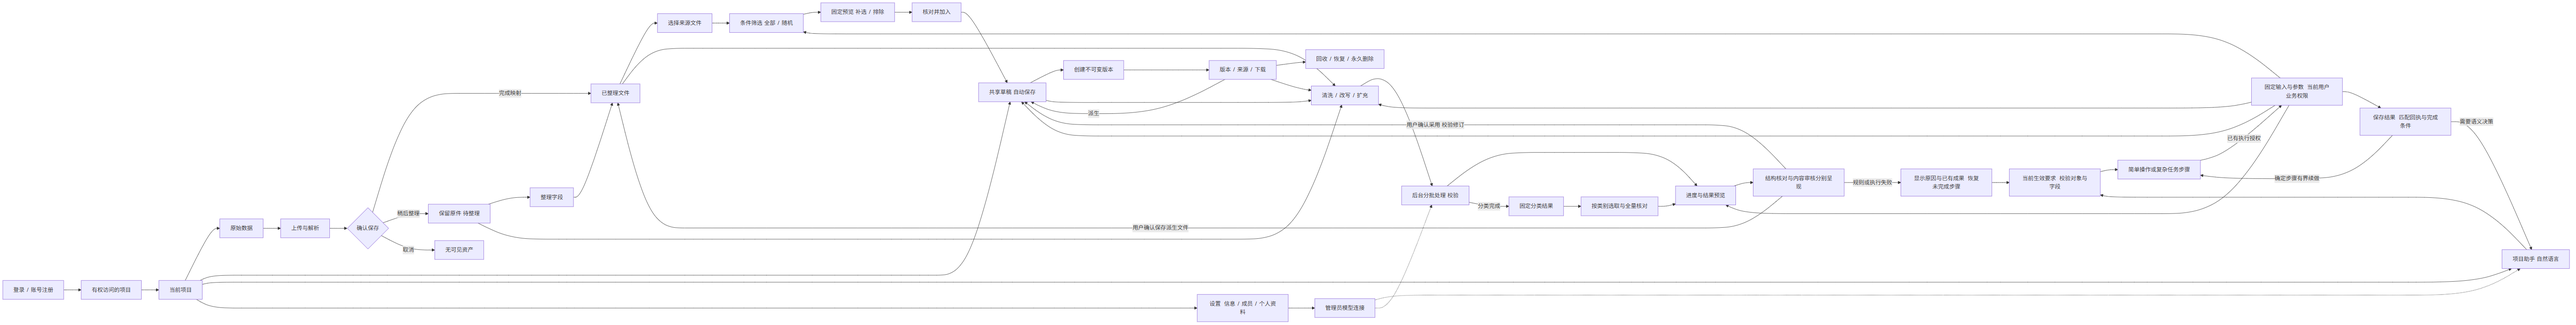
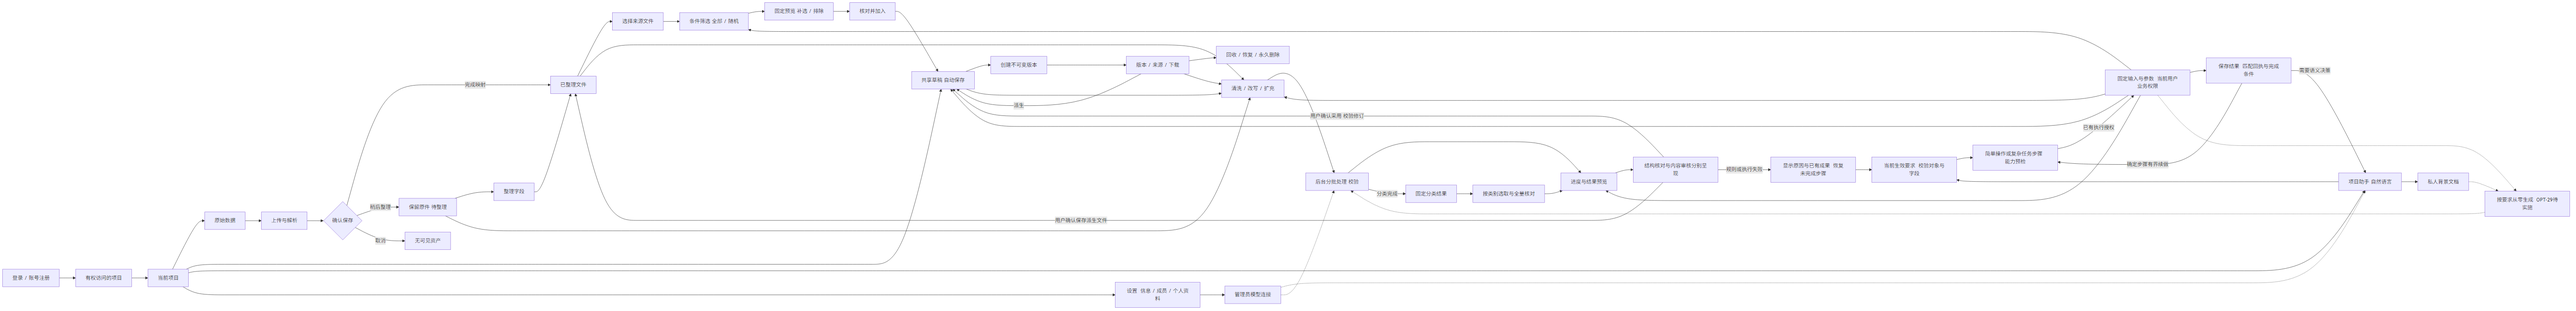
docs: define assistant repair batches OPT-26 to OPT-31

diff --git a/docs/assistant-generation-repair-batches.md b/docs/assistant-generation-repair-batches.md
@@ -1,0 +1,72 @@
+# 项目助手执行与生成修复：三个批次
+
+2026-10-15。Owner 授权整理修复方案和 Tickets；本轮只修改文档，六张均未开始开发。产品入口见 [PRD §7.7](PRD-data-selection-and-assistant.md#77-执行与生成修复2026-10-15待实施)，执行状态见 [台账](../.scratch/assistant-optimization/spec.md)。本方案细化既有助手合同，并明确补入“依据背景文档从零生成”；不把这项新增能力写成现有功能。
+
+## 1. 实测依据与问题边界
+
+审查对象为会话 `conversation_2b0353f882b24924ad23ac3819570dd2`：上传 GB 文档，先制定方案，再依次创建 A.1 八个小类的测试集，每类 50 条，不使用现有原始数据。4217 应用基线为 `cedde4dfd6ef255179d7c77bca535fc79ff64355`；文档基线 HEAD `6237109ac2c0c5968a83c7cbc9764cafc26982ca`，两者应用代码一致。PDF 读取成功；截至审查仅有第一类 50 条未采用候选，其余七类未开始，不能记为已交付 8 个测试集。
+
+| 现象 | 已核实原因及限制 | 修复归属 |
+| --- | --- | --- |
+| `instructions`、`allSelected` 等字段反复被拒绝，错误直接要求用户修工具参数 | 计划步骤的通用输入描述与实际工具校验不一致；界面优先显示底层 hint | OPT-26 |
+| 用户要求只给文本、不再调用操作，仍继续旧步骤 | 待执行旧步骤优先于本轮 `nextAction:none`；自动续做没有正确服从新意图 | OPT-27 |
+| 读取有 50 条，后续改写只处理了最初 20 条；目标变成 82 条 | 读取使用当前成果集合，条件选取分支却回读原始运行；目标缺失时把 50、30、2 三次请求数量相加 | OPT-28 |
+| 空草稿不能按文档直接生成，尝试把背景文档当原始文件 | 当前处理只接受真实记录输入；缺少从零生成能力和计划执行前的能力检查 | OPT-29 |
+| 第一轮多次生成仍大量重复 | 13 次模型请求累计校验 92 条，其中 72 条完全重复，仅保留 20 条；已有去重和有界重试，仍不足以保证有效产出 | OPT-30 |
+| 改写工具完成但内容几乎不变，分类数量被当作质量证明 | 20 条那轮全部未变；正确选择 50 条后仍有 47 条三字段均未变；同问题不同答案未计入完全重复 | OPT-31 |
+
+这次暴露的是能力缺口、工具合同、工作流状态和模型产出质量共同造成的问题，不能归因于用户提示词不够详细。少量种子及采样参数可能影响多样性，但未做受控对照，不能据此认定唯一原因或成功率。结构校验本身已注明需要内容审核；问题还包括助手总结把结构指标过度解释为内容质量。
+
+## 2. Tickets、批次与依赖
+
+| 批次 | Ticket | 交付范围 | 硬依赖 |
+| --- | --- | --- | --- |
+| 第一批：执行正确、反馈可懂 | [OPT-26](../.scratch/assistant-optimization/issues/26-tool-contract-and-error-feedback.md) | 统一计划与工具参数，内部纠错和用户反馈分开 | 现有 OPT-20–25 实现 |
+| 第一批 | [OPT-27](../.scratch/assistant-optimization/issues/27-intent-and-plan-continuation.md) | 最新用户意图优先，暂停、规划和续做一致 | 现有实现；可独立于 OPT-26/28 修复 |
+| 第一批 | [OPT-28](../.scratch/assistant-optimization/issues/28-result-scope-and-goal-count.md) | 当前成果范围统一，目标与补齐请求数量分开 | 现有实现；可独立于 OPT-26/27 修复 |
+| 第二批：补齐真实能力 | [OPT-29](../.scratch/assistant-optimization/issues/29-document-grounded-generation.md) | 文档驱动从零生成、能力预检、八类逐项交付 | OPT-26、OPT-27、OPT-28 |
+| 第三批：产出质量与完整验收 | [OPT-30](../.scratch/assistant-optimization/issues/30-generation-diversity-and-recovery.md) | 场景分配、多样性、重复反馈与有界补齐 | OPT-29 |
+| 第三批 | [OPT-31](../.scratch/assistant-optimization/issues/31-rewrite-effectiveness-and-quality.md) | 改写有效性、质量反馈和最终同会话闭环 | OPT-28、OPT-30 |
+
+推荐按编号推进；第一批三张不存在人为串行依赖。后续批次依赖前批相关自动验证通过，不要求逐张重复人工确认。获得某一批开发授权后可在该批内连续推进；本次文档授权不等于开发、部署或合并授权。
+
+第一批先消除确定性执行错误；此时不能宣称已支持空输入生成。第二批交付可运行的生成路径；内容多样性与最终八类交付在第三批验收。每张包含相关前后端及定向验证，不另拆样式票、测试票或文档票。
+
+## 3. 共同实施边界
+
+- 沿用 AI SDK、现有业务工具、PostgreSQL/Worker/MinIO、处理运行和稳定候选身份；不换框架，不加多智能体、通用 DAG、向量库、第二套结果存储或通用质量评测平台。
+- 依据 [ADR-0014](adr/0014-project-agent-and-processing-runtime.md)，背景文档属于私人会话资料；它提供生成依据，不冒充原始数据资产。服务端核实权限、引用、固定输入和回执，文档中的文字不获得工具授权。
+- 已授权执行无需反复询问开工；结果采用和正式发布保留现有固定确认。停用、撤权、修订冲突、未知写入对账、字段保护及容量限制保持。
+- 同一用户目标的预算跨自动续做、格式纠正和补齐累计，不能靠换运行或重试重置。新一轮明确授权的工作与原故障重试区分；达到上限保留成果并说明未完成部分。
+- 只修本次行为链。工具合同尽量复用现有 schema 和领域服务；若现有存储足够，不为计划、场景和统计各建一张新表。确需持久字段时做最小兼容增补，旧运行按原冻结配方恢复。
+- UI 严格复用 frontend-v1 的字体、token、图标、间距、密度和适用组件，正式改动在 frontend-v3。沿用独立助手页面、处理结果组件和确认卡，不增设第二个工作台或面向用户的 API 参数编辑器；冻结原型保持只读。
+- 保留同一 4217 的项目、账号、文档、失败会话、候选与验收数据；定向测试使用隔离夹具，不改写旧会话来伪造成功。旧 Ticket 的 Owner 状态不由本轮代签。
+
+## 4. 具体用户流程
+
+用户在一个新会话上传背景文档后，可直接说：
+
+> 根据这份文档，为 A.1 的 8 个小类各建一个 50 条的测试集。问题要像用户正常提问、语义完整，不用现有原始数据。先给方案。
+
+助手读取有权访问的文档，核对八个分类定义、每类 50 条和生成能力，给出简短业务方案；此时不创建草稿、不入队、不写候选。用户说“按方案执行，逐个创建”后，逐类生成和审核；每类当前目标为 50 条，整体交付为 8 个测试集、合计 400 条。范围清楚时不要求用户选择内部字段或手动提供种子。
+
+已生成成果支持“把这批问题改得更自然”“只改我选中的两条”“继续下一类”。先处理完当前需要审核/确认的成果，再按已有授权推进下一类；不悄悄采用或发布，不把确认按钮之外的口头总结当作真实写入。沿用已有确认粒度，不新增每个模型批次的确认。
+
+用户改口“先停下，只解释方案”，助手保存当前进度并停止新增业务动作。恢复时以最新明确要求和真实回执继续，不重建已存在的草稿或重复生成已完成的类别。
+
+GB 分类仅为这次验收数据，产品仍支持通用测试集；不内置八类、50 条、拒答要求或安全标签作为所有任务的默认值。内容不满足文档或用户要求时报告具体差额，不承诺模型永远不报错。
+
+## 5. 验证与完成口径
+
+各 Ticket 的验收表是对应断言的唯一详细清单；[测试计划](test-plan-data-selection-and-assistant.md#515-opt-2631-执行与生成修复) 仅作索引。
+
+1. 第一批用现有可控模型和隔离持久化回归本次错误：错误字段、最新意图、跨批 20+28+2 集合、50/30/2 数量。已有未变权限与确认用例直接复用，不重新运行全库流程。
+2. 第二批先做 5–10 条真实文档生成样例，再完成第一类 50 条小闭环；检查无原始数据输入、无人工种子、刷新恢复及真实保存回执。能力通过与内容质量分别记录。
+3. 第三批在固定代码/模型配置下，用一个新会话完成一次八类各 50 条的集成验收，作为本轮唯一大批生成。使用上述普通短提示词；允许业务澄清和既有确认，不允许靠用户提供工具名、参数修正、内部 ID、手动种子或绕过页面 API 来完成。
+4. 400 条全部进行结构检查；每类内容按自然问法、语义完整、分类一致和期望行为进行逐条审核。若只抽查，必须注明范围，不能据此标记 400 条全部可用。明确区分模型原生合格、自动恢复后合格和人工修改后合格。
+5. 记录各类实际数量、重复与未变化数量、模型调用/重试次数、失败类别、耗时和技术纠错提示次数；技术纠错提示目标为 0。预算耗尽保留进度，不能隐藏失败或反复重跑直到成功。一次通过不证明任意模型和输入零失败。
+6. 最终汇总六张验证证据，复用同一 4217 供一次集中人工验收。只构建受影响服务，不新增 5/10 人压测、两小时稳定试验或服务器重启测试；不自动合并、推送或正式部署。
+
+## 6. 本轮文档状态
+
+六张 Ticket 均为 `Status: ready-for-agent`、`Implementation: not-started`。本次仅记录问题、修改范围、依赖与验收；开发完成、真实模型通过及 Owner 验收均需后续实际证据。

diff --git a/.scratch/assistant-optimization/issues/29-document-grounded-generation.md b/.scratch/assistant-optimization/issues/29-document-grounded-generation.md
@@ -1,0 +1,40 @@
+# OPT-29 依据背景文档从零生成与能力预检
+
+Status: ready-for-agent
+Implementation: not-started
+Blocked by: OPT-26, OPT-27, OPT-28
+
+优先级：P1。第二批。依赖 [OPT-26](26-tool-contract-and-error-feedback.md)、[OPT-27](27-intent-and-plan-continuation.md)、[OPT-28](28-result-scope-and-goal-count.md) 的相关自动验证通过。本次仅文档，开发待后续授权；完整边界见 [三批修复方案](../../../docs/assistant-generation-repair-batches.md)。
+
+## 问题与目标
+
+当前处理必须提供真实输入记录，缺少“用背景要求从零生成”路径；计划没有识别能力缺口，导致创建空草稿后反复提交失败。补齐一个实际可执行的生成能力，不再要求用户手工创造种子或把 PDF 假装成原始数据。
+
+## 修改范围
+
+- 在现有处理服务增加明确的无记录生成模式/命令，冻结当前用户要求、数量、允许生成的输出字段、背景版本/哈希及必要页段。与 assets/draft/version 的记录处理合同区分；不把允许空数组扩散到清洗、改写或现有基于记录扩充。
+- 沿用现有队列、Worker、分批执行、预算、取消、恢复和候选存储。新候选身份由服务端分配，不要求模型编造 `sourceRecordId`；无源记录时不套用“继承未修改输入字段”，期望输出和 Metadata 按已确认生成要求校验。
+- 背景引用由服务端解析，只能使用当前用户有权读取的会话资料；权限、撤权及删除清理延续现有规则。处理配方冻结实际依据；来源显示“依据背景文档生成”及真实页段，不列虚构参考记录，也不向其他成员泄漏私人原文。
+- 在规划和执行前做轻量能力/前置条件检查：区分文档可读、记录已选、从零生成等情况。必要模型、背景或目标缺失时在副作用前说明缺少什么，不能写出实际无法执行的步骤后靠盲重试推进。
+- 助手工具、计划和后台执行共同支持此模式；从现有独立助手页面发起，结果复用当前审核、局部处理、采用和发布。依据文档创建多个测试集时，复用现有步骤/交付状态保存类别、目标和成果引用，逐类推进，不做并行编排平台。
+- 来源类型和生成配方只做必要兼容扩展；现有三类记录来源及旧冻结任务恢复不变。先更新受影响的接口/配方说明再落实现有服务，不新增第二套生成页面。
+
+## 非目标
+
+不加知识库、RAG、向量检索、OCR、自动联网搜集或 GB 专用分类器；不绕过采用/发布确认，不把单纯声明“支持生成”作为交付，不使用人工种子作为从零生成成功证据。
+
+## 验收标准
+
+| 编号 | 验收 |
+| --- | --- |
+| R29-1 | 新会话上传有权访问的 PDF 后，普通短请求“按文档生成，先给方案”只读取和规划；无草稿、处理任务或候选写入，方案能正确说明执行条件。 |
+| R29-2 | “按方案执行”可从零产生候选；不读取任何原始记录，不需人工种子/字段纠错，服务端身份稳定且三字段结构符合要求。先验证 5–10 条，再验证第一类 50 条。 |
+| R29-3 | 空输入清洗/改写和旧扩充仍按原合同拒绝；缺背景、无权限、模型未配置在副作用前可理解地失败，不把背景 ID 当资产 ID。 |
+| R29-4 | 中断、取消、刷新、有限重试和未知写入恢复后保留候选及真实回执，不重复创建同一草稿；预算不会通过新模式绕过。 |
+| R29-5 | 八个各 50 的方案在同会话保存独立交付项，首类不会生成 400；已完成类别不重复，后续类别能按既有授权继续；本张不要求真实完成全部八类。 |
+| R29-6 | 核对后沿现有固定确认保存/发布；来源真实，私人附件正文不向无权用户公开，旧记录来源和旧配方定向回归通过。 |
+| R29-7 | UI 仅补必要模式/来源/进度信息，复用 frontend-v1 组件风格；结构成功与内容待审核分别表达，不标记尚未完成的八类交付为完成。 |
+
+## Comments
+
+- 2026-10-15：作为明确的能力增补单列，第一批修错不能代替本张交付；仅整理文档，验收未执行。

diff --git a/.scratch/assistant-optimization/issues/31-rewrite-effectiveness-and-quality.md b/.scratch/assistant-optimization/issues/31-rewrite-effectiveness-and-quality.md
@@ -1,0 +1,36 @@
+# OPT-31 改写有效性、质量反馈与同会话交付验收
+
+Status: ready-for-agent
+Implementation: not-started
+Blocked by: OPT-28, OPT-30
+
+优先级：P1。第三批。依赖 [OPT-28](28-result-scope-and-goal-count.md) 与 [OPT-30](30-generation-diversity-and-recovery.md)。本次仅文档，开发待后续授权；最终业务场景、预算和一次集中验收见 [三批修复方案](../../../docs/assistant-generation-repair-batches.md#5-验证与完成口径)。
+
+## 问题与目标
+
+改写完成后 50 条中有 47 条完全未变化，另有相同问题不同答案；助手却用标签种类数量说明内容足够多样。目标是区分“执行结束、确有修改、结构合格、内容合格、已经保存”，让用户得到真实进度和可操作结果。
+
+## 修改范围
+
+- 在现有 `src/processing/refine.ts`、`review.ts` 及助手 `review.ts` 中，以本轮冻结的真实输入比较允许修改字段；不能错误地与最初原始文件或其他批次比较。记录实际修改、未变化及未处理数量，按当前有效集合汇总。
+- 对明确要求改写的记录，完全未变化不宣称已完成改写目标；给出简短原因和仅处理未生效范围的恢复入口。复用既有有限恢复与累计预算，不无限重写、不覆盖未授权字段。
+- 清洗无多余空白/无需规范化时保持原值属于合法结果，不套用改写失败判定。内容变化只能证明字段有变，不能证明语义质量；标点变化不能被总结成“问法已经自然”。
+- 将结构问题、问题文本碰撞、改写未生效及待内容审核分别表达。自动完全重复去重与用户保留对照样本区分；不凭标签数量、工具成功或计数齐全自动宣称内容合格。
+- 更新助手可见核对结果和总结依据，使用真实统计与明确限制。用户界面保留简短摘要、必要警示及现有结果详情；不增加满屏质量卡片、评分排行榜或新评审智能体。
+- 完成六票集成验证，复用现有脚本、可控模型、浏览器和处理服务；记录实际模型请求及人工干预，不建设新的评测平台。
+
+## 验收标准
+
+| 编号 | 验收 |
+| --- | --- |
+| R31-1 | 可控 50 条改写仅 3 条变化、47 条原样时，报告 3 条变化/47 条未生效，不称全部改写成功；部分重做只触及授权范围且未选成果保留。 |
+| R31-2 | 比较使用当前轮真实固定输入；保护字段不变。合法清洗无变化正常结束；仅标点改变不能被当成语义已通过，内容审核状态独立。 |
+| R31-3 | 相同问题不同答案明确提示碰撞并允许按业务要求保留；标签种数、结构通过及模型声称完成不能自动解除内容审核。 |
+| R31-4 | 依总方案用一个新会话、一个上传文档和普通短提示词，先方案再逐类执行八个各 50 条；0 次用户内部参数纠错、0 条人工种子、0 次绕过助手 API 补造结果。 |
+| R31-5 | 最终 400 条结构检查全覆盖；逐条审核自然问法、语义完整、分类和期望行为，并区分原生结果/自动恢复/人工修改。缺额、内容问题或只抽样时如实记录，不标全量可用。 |
+| R31-6 | 八个成果经既有固定确认保存，发布按实际用户授权及既有确认执行；刷新可读且有真实回执。逐类数量、来源及交付状态准确，不因一个类别完成就结束全部任务。 |
+| R31-7 | 有限失败保留当前成果，停止/续做不重复创建或采用；汇总六票定向验证与唯一一次大批集成证据，4217 保留旧验收数据，UI 与 frontend-v1 对齐。 |
+
+## Comments
+
+- 2026-10-15：包含直接相关质量修复及一次最终集成验收；仅整理文档，所有验收待执行。自动验证不代替 Owner 验收。

diff --git a/docs/test-plan-data-selection-and-assistant.md b/docs/test-plan-data-selection-and-assistant.md
@@ -212,3 +212,9 @@ OPT-07 已记录错误来源/过滤范围、冻结参数、回包丢失、后台
 默认使用现有假模型与隔离持久化验证确定性边界，真实模型只执行有界样例；同一固定 HEAD 的有效证据直接复用。暂时故障恢复不等于首次成功，结构通过不等于内容合格，人工修正单独记账。保留 4217 的 Owner 数据，不加入 5/10 人压测、两小时试验或服务器重启检查；最终页面闭环集中一次人工验收，不替旧 Ticket 签署通过。
 
 OPT-20 已按 R20-1–5 完成定向接口、诊断单测和浏览器验证，并保存修复前真实模型小样本；统一入口为 `scripts/assistant-baseline.ts`。可控模式只报告合同断言，真实模式核对持久成果和范围；未知恢复/人工纠错计数保持 null。命令、样本、复审及同一 4217 版本见 [OPT-20 验证记录](../.scratch/assistant-optimization/opt20-verification.md)。OPT-21 已完成共享重试预算、故障/退避、停止/撤权、原回执与未知写入、过期重领、总结失败后的成果保留和 Worker 累计额度回归；实际命令与 A9/A10 结果见 [验证记录](../.scratch/assistant-optimization/opt21-verification.md)。OPT-22 已完成要求精确归一、薄参数绑定、阶段能力、固定选取及规则变更确认竞争的定向回归；原回执、Metadata 键限制、旧批次选择和背景要求重排均有覆盖，A2/A3/A4/A6/A9/A10 实际结果见 [验证记录](../.scratch/assistant-optimization/opt22-verification.md)。OPT-23 已完成超过六轮/五十条历史的当前来源、持久选择及替换失效、长结果成对摘要和步骤推进、定义原文复用/篡改拒绝、删除后显式撤销以及普通附件省略分类的保护；既有 GB 附件仅作只读引用核查。A2/A7/A8 及同一 4217 证据见 [验证记录](../.scratch/assistant-optimization/opt23-verification.md)。OPT-24 已完成独立路由/个人会话迁移、分页与按需明细、安全渲染、权限失效、输入/选择保留和当前方案修订执行；审阅指出的终态轮询、无效记忆回落及提交旧快照竞态均通过定向回归。固定 Web、真实旧会话的请求字节/耗时及同一 4217 数据保留见 [OPT-24 验证记录](../.scratch/assistant-optimization/opt24-verification.md)。OPT-25 的整任务有效集合、选择修订、局部调整与原草稿确认回执已实施；跨批、排除、缺失、权限、参数恢复、未知写入及最终模型/200条集成证据汇总见 [OPT-25 验证记录](../.scratch/assistant-optimization/opt25-verification.md)。最终 Owner 集中验收仍 pending。
+
+### 5.15 OPT-26–31 执行与生成修复
+
+本轮仅新增验收计划，尚未开发或执行。详细断言分别见 [OPT-26](../.scratch/assistant-optimization/issues/26-tool-contract-and-error-feedback.md#验收标准)、[OPT-27](../.scratch/assistant-optimization/issues/27-intent-and-plan-continuation.md#验收标准)、[OPT-28](../.scratch/assistant-optimization/issues/28-result-scope-and-goal-count.md#验收标准)、[OPT-29](../.scratch/assistant-optimization/issues/29-document-grounded-generation.md#验收标准)、[OPT-30](../.scratch/assistant-optimization/issues/30-generation-diversity-and-recovery.md#验收标准)、[OPT-31](../.scratch/assistant-optimization/issues/31-rewrite-effectiveness-and-quality.md#验收标准)。
+
+三批推进、普通短提示词、400 条唯一一次集成验证及内容审核范围以 [总方案 §5](assistant-generation-repair-batches.md#5-验证与完成口径) 为准；不重复建立测试平台或每票重跑大批生成，不追加压力/长稳/重启试验。历史通过证据只覆盖未变化的范围，新发现的问题必须有对应回归，Owner 验收单独记录。

diff --git a/.scratch/assistant-optimization/issues/30-generation-diversity-and-recovery.md b/.scratch/assistant-optimization/issues/30-generation-diversity-and-recovery.md
@@ -1,0 +1,35 @@
+# OPT-30 生成场景分配与有界重复补齐
+
+Status: ready-for-agent
+Implementation: not-started
+Blocked by: OPT-29
+
+优先级：P1。第三批。依赖 [OPT-29](29-document-grounded-generation.md)，复用 OPT-28 目标与成果合同。本次仅文档，开发待后续授权；证据及共同边界见 [三批修复方案](../../../docs/assistant-generation-repair-batches.md)。
+
+## 问题与目标
+
+已有去重、批次偏移和重试仍出现 92 条中 72 条完全重复。目标是让生成批次承担明确不同的场景任务，只补实际缺额；预算耗尽真实报告部分成果。不能仅提高温度或加一句“不要重复”就声称解决。
+
+## 修改范围
+
+- 复用 `src/processing/protocol.ts`、`execute.ts` 和现有配方：按用户要求形成简短、可持久的场景分配与每批生成范围，涵盖不同使用情境、问法和必要分类；每批获得自己的目标及已使用场景摘要，避免反复生成同一小组变体。
+- 场景分配复用已有方案/模型上下文和批次机制，不额外建立策划智能体。用户不必填写场景矩阵；不预先生成完整 400 条塞进提示词，也不硬编码 GB 或金融主题。
+- 保留已有确定性完全重复检查，并将新候选与当前有效成果比较；将已接受内容的有界摘要、明确重复原因和剩余场景传回后续请求。跨批、补齐和局部处理都沿同一目标/有效集合计算缺额。
+- 同问题不同期望输出识别为需核对的碰撞，不能无条件当作完全重复删除；近似表达不引入向量相似度或自动语义判死。所需内容审核与自动去重边界在 OPT-31 展示。
+- 格式错误、超时、内容重复、数量不足分类计入已有共享额度；有效候选保留，补齐只请求缺额。达到总预算停止并给出剩余量；显式继续也不能把故障重试伪装成新任务重置原额度。
+- 配方与必要采样参数变更记录版本，旧任务按原版本恢复。参数调整须通过同输入的小样本证据判断，不武断归因于温度或某个模型。
+
+## 验收标准
+
+| 编号 | 验收 |
+| --- | --- |
+| R30-1 | 可控模型返回跨批完全重复、空问题、有效内容混合时，只计有效成果；目标 50，已有 20/48 时剩余 30/2，补齐不扩大目标或删除原成功结果。 |
+| R30-2 | 本批、跨批及与当前任务成果的完全重复被正确处理；同问题不同答案作为碰撞待审核，合法对照样本不会被无条件删除。 |
+| R30-3 | 连续重复或超时耗尽共享预算后终止，保留有效数量、原因及可恢复范围；换自动回合/重试入口不绕过额度，既有停止和撤权仍有效。 |
+| R30-4 | 真实第一类 50 条采用明确场景分配，记录请求数、完全重复数、有效数、耗时和内容审核结果；相同基础要求下与审查基线比较，未达 50 不记为成功。 |
+| R30-5 | 验证另一种通用主题的小样例，分类与场景来自要求而非内置 GB；新旧配方兼容。新测试不扩为大型模型横评。 |
+| R30-6 | 自动补齐、部分完成与预算耗尽在现有页面简洁表达，UI 复用 frontend-v1；完整八类集成验收留到 OPT-31，一次执行并复用本张证据。 |
+
+## Comments
+
+- 2026-10-15：聚焦现有生成链与重复恢复，不增加第二套内容生成平台；仅整理文档，验收未执行。

diff --git a/.scratch/assistant-optimization/spec.md b/.scratch/assistant-optimization/spec.md
@@ -1,3 +1,5 @@
+2026-10-15 新增文档计划：Owner 要求按三个批次整理 [OPT-26–31 修复方案](../../docs/assistant-generation-repair-batches.md)，覆盖参数/错误反馈、计划意图、成果范围与数量、文档从零生成、多样性和改写质量。六张均为 not-started，本轮未改应用或 4217，开发待后续授权；旧 Ticket 实施及 Owner 验收记录保持。
+
 2026-10-15 最新实施：[OPT-25](issues/25-assistant-task-results-and-delivery.md) 已按Owner授权完成。默认整任务有效成果，固定勾选及局部处理，原草稿采用与真实回执；最终代码、27项HTTP、39项故障/确认合同、15次短请求和200条同会话流程、40条内容核对及同一4217数据保留见[验证记录](opt25-verification.md)。Implementation completed、Owner pending；下面旧记录保留历史状态，OPT-05/09不由本次代签。
 
 # 项目助手实测优化实施规格
@@ -87,6 +89,12 @@ Implementation: in-progress
 | [OPT-23](issues/23-assistant-context-and-background-refs.md)      | 当前事实摘要、长会话续用及已验证背景引用                       | OPT-22 已完成                                         | completed      | [实施与验证](opt23-verification.md)；同一 4217、Owner pending                                           |
 | [OPT-24](issues/24-assistant-independent-workspace.md)            | 独立助手页面、个人会话、上下文及既有能力迁移                   | OPT-20；OPT-23 已完成                                 | completed      | [实施与验证](opt24-verification.md)；同一 4217、Owner pending                                           |
 | [OPT-25](issues/25-assistant-task-results-and-delivery.md)        | 整任务成果审核、局部调整与确认交付闭环                         | OPT-21/22/23/24                                       | completed      | [原验证](opt25-verification.md)、[审阅补修及最新4217](opt20-25-review-fixes.md)；Owner集中验收pending   |
+| [OPT-26](issues/26-tool-contract-and-error-feedback.md) | 统一参数合同、内部纠错与用户错误反馈 | 现有实现 | not-started | 2026-10-15 仅文档；验收未执行 |
+| [OPT-27](issues/27-intent-and-plan-continuation.md) | 最新意图、暂停与计划续接 | 现有实现；与 OPT-26/28 独立 | not-started | 2026-10-15 仅文档；验收未执行 |
+| [OPT-28](issues/28-result-scope-and-goal-count.md) | 当前成果范围与业务目标数量一致性 | 现有实现；与 OPT-26/27 独立 | not-started | 2026-10-15 仅文档；验收未执行 |
+| [OPT-29](issues/29-document-grounded-generation.md) | 依据文档从零生成与执行能力预检 | OPT-26/27/28 | not-started | 2026-10-15 仅文档；验收未执行 |
+| [OPT-30](issues/30-generation-diversity-and-recovery.md) | 场景分配、多样性与有界重复补齐 | OPT-29 | not-started | 2026-10-15 仅文档；验收未执行 |
+| [OPT-31](issues/31-rewrite-effectiveness-and-quality.md) | 改写有效性、质量反馈及八类集成验收 | OPT-28/30 | not-started | 2026-10-15 仅文档；验收未执行 |
 
 长任务的历史范围见 [方案执行与长任务恢复](../../docs/assistant-long-task-execution.md)。当前整改按本规格开头的文档职责执行。OPT-05 与整改批次的最终 Owner 验收仍未收口；OPT-10 补修后仍复用同一最终 checkpoint，不改写历史验证记录。
 

diff --git a/.scratch/assistant-optimization/issues/26-tool-contract-and-error-feedback.md b/.scratch/assistant-optimization/issues/26-tool-contract-and-error-feedback.md
@@ -1,0 +1,37 @@
+# OPT-26 工具参数合同与用户错误反馈修复
+
+Status: ready-for-agent
+Implementation: not-started
+Blocked by: none
+
+优先级：P1。第一批。依赖已存在的 OPT-20–25 实现；本次仅文档，开发待后续授权。共同边界和证据见 [三批修复方案](../../../docs/assistant-generation-repair-batches.md)。
+
+## 问题与目标
+
+计划接受的输入描述与工具实际参数不一致，`create_draft.instructions`、`submit_processing.allSelected` 等错误反复出现；界面直接把跨工具纠错说明交给用户。目标是让模型使用真实可执行合同，在有界范围内自行修正内部参数错误，用户只处理业务问题。
+
+## 修改范围
+
+- 对齐 `src/assistant/agent.ts` 中工具定义、计划步骤输入和校验/执行映射：每个 action 复用实际工具 schema 或从同一来源派生薄合同，避免通用 input 暗示所有 action 都接受同一组字段。读取、规划和执行阶段暴露的能力与当前模式一致。
+- 已知当前对象、草稿及候选引用继续由服务端校验绑定；区分背景文档和资产引用，不把非法 ID 静默转换成另一个来源。结构错误在任何业务副作用前被拦截。
+- 内部修复信息只包含本次工具、错误路径、允许字段及必要正确结构；去掉每次重复的跨工具大段提示。沿用现有共享预算，重复相同错误无进展时停止，不增加第二套重试循环。
+- 调整 `src/assistant/diagnostics.ts` 与 `frontend-v3/src/components/project-assistant.tsx`：普通视图说明“哪一步未完成、已有成果是否保留、能做什么”；技术信息收进诊断详情，不能优先直接显示底层 hint 或让用户删除 `allSelected`。
+- 从实际回执决定成功与失败；工具完成但总结失败时不把业务操作显示为未执行。仅业务信息不明确时要求用户补充。
+
+## 非目标
+
+不支持空输入生成（见 OPT-29），不替换模型框架，不建设通用 schema 注册平台，不靠扩大可接受任意字段掩盖错误。UI 沿用现有布局和 frontend-v1 风格。
+
+## 验收标准
+
+| 编号 | 验收 |
+| --- | --- |
+| R26-1 | 计划与直接调用对同一 action 的合法/非法参数结论一致；覆盖本次两个错误字段、背景 ID 误作资产及缺少必填字段。非法步骤未创建草稿、任务或候选。 |
+| R26-2 | 可控模型先给错误字段后改正，在原预算内完成；重复同错耗尽后有明确终止原因，无无限续做、无重复业务写入。 |
+| R26-3 | 用户用“先写方案”“按方案执行”等短话即可走通已有能力；无需内部 ID、工具参数或人工纠错提示。依赖 OPT-29 的能力暂时明确反馈尚不支持。 |
+| R26-4 | 参数错误、来源失效、模型暂时不可用、业务成功但总结失败分别给出准确反馈；普通界面没有长堆栈、密钥、跨工具参数教学，诊断保留定位所需信息。 |
+| R26-5 | 定向浏览器覆盖报错及恢复、已有成果入口、诊断展开、键盘及窄窗口；保持 frontend-v1 风格、权限与确认流程。 |
+
+## Comments
+
+- 2026-10-15：根据八类测试集实测建立；仅整理文档，验收未执行。

diff --git a/.scratch/assistant-optimization/issues/28-result-scope-and-goal-count.md b/.scratch/assistant-optimization/issues/28-result-scope-and-goal-count.md
@@ -1,0 +1,35 @@
+# OPT-28 当前成果范围与目标数量一致性修复
+
+Status: ready-for-agent
+Implementation: not-started
+Blocked by: none
+
+优先级：P1。第一批，可独立修复；合批验证使用 OPT-26/27 的合同。本次仅文档，开发待后续授权。共同边界见 [三批修复方案](../../../docs/assistant-generation-repair-batches.md)。
+
+## 问题与目标
+
+读取 50 条当前候选后，条件改写却只读取初始运行的 20 条；目标未持久保留时按运行请求量计算出 82 条。目标是让查看、选取、修改、核对和采用使用同一份当前成果，业务目标不随补齐次数变化。
+
+## 修改范围
+
+- 统一 `src/assistant/agent.ts` 的 `read_processing`、候选筛选/局部修改与 `candidates.ts` 的当前有效集合解析；配合 processing 现有 task-state/refine 服务。历史 run 详情保留只读追溯，不作为“当前全部”的隐式回落。
+- 明确三种范围：用户明确当前全部、当前筛选匹配结果、固定 UI 勾选。没有勾选不能解释为全选；明确“这批全部”也不能强迫先勾 UI。空字符串条件不作为选择全部的捷径。真正业务歧义才询问范围。
+- 各入口冻结同一集合修订、稳定身份和实际运行引用；局部替换不重复计数，未选候选保留。集合失效重新核对，不能悄悄改到旧运行或其他任务。
+- 修复 `src/assistant/review.ts`、要求及计划持久化中的目标数量来源：每个交付目标的数量独立于 `outputCount` 和重试次数；保留已确认目标，只有用户变更才更新。八类各 50 的总体与当前类别数量分别表达。
+- 旧任务缺目标时，仅从可核实的生效要求或无歧义原始生成目标恢复；无法确定时请求业务澄清，禁止累加补齐请求量或用当前实有数量反推已达标。
+- 核对、摘要与确认卡使用同一目标/实际成果统计；不另建候选副本表或跨会话合并器。
+
+## 验收标准
+
+| 编号 | 验收 |
+| --- | --- |
+| R28-1 | 构造 20+28+2 条有效成果；读取、全量自然语言改写、条件选择、UI 选择和采用均覆盖正确 50 条，历史 run 仍只显示自己的结果。 |
+| R28-2 | 固定两条只处理两条，未选 48 条不变；刷新、筛选、修订冲突和候选替换不误改、不重计，空勾选不会扩大范围。 |
+| R28-3 | 目标 50、原请求 50、补齐请求 30 和 2 时目标始终 50，实际按有效集合计算；暂停、重建计划、刷新后不会变成 82 或 20。 |
+| R28-4 | 旧任务目标可明确恢复时无需用户重复输入；有歧义则明确未核实，不以当前数量宣告完成；新的普通补齐不重复扩大总目标。 |
+| R28-5 | 八个各 50 的交付项不混淆为首类 400；部分采用/完成不标全部完成；数量与范围在助手、处理结果及固定确认中一致。 |
+| R28-6 | 继续保护跨用户/项目权限、已保存身份、字段修订和未知写入幂等；本张不启动真实 400 条生成，使用现有隔离夹具定向验证。 |
+
+## Comments
+
+- 2026-10-15：按当前集合与目标漂移两个同链问题建票；仅整理文档，验收未执行。

diff --git a/.scratch/assistant-optimization/issues/27-intent-and-plan-continuation.md b/.scratch/assistant-optimization/issues/27-intent-and-plan-continuation.md
@@ -1,0 +1,37 @@
+# OPT-27 最新用户意图与计划暂停、续接修复
+
+Status: ready-for-agent
+Implementation: not-started
+Blocked by: none
+
+优先级：P1。第一批，可独立修复；合批验证使用 OPT-26 的反馈合同。本次仅文档，开发待后续授权。共同边界见 [三批修复方案](../../../docs/assistant-generation-repair-batches.md)。
+
+## 问题与目标
+
+本轮明确只要求文本时，旧待执行步骤仍优先于 `nextAction:none`。目标是由最新有效用户意图决定是否继续业务操作，已有成果保留，用户无须猜测怎样才能阻止助手继续执行旧计划。
+
+## 修改范围
+
+- 梳理 `src/assistant/agent.ts` 的 `plan_task`、`pendingPlanAction`、固定步骤执行和自动续做，配合 `plan.ts`、`tasks.ts`：本轮回答/规划/执行意图及现有执行授权先于旧 pending 步骤；明确暂停业务执行时不能被旧步骤覆盖。
+- 复用现有任务/计划状态与修订。`nextAction:none` 在本轮仅回答或规划时不能被重解释为立即执行；“继续执行”只恢复最新获授权方案。不要把模型一次未选工具永久等同于用户撤销授权。
+- 区分暂停后续步骤与已入队运行的取消：暂停不再派新任务；用户明确停止运行则使用已有取消机制。已完成回执保留，停止/改要求后的旧自动事件和迟到响应不能重新启动旧工作。
+- 计划调整后仅保留仍匹配对象、范围及修订的有效回执；读取进度、刷新或重新打开会话不会重复创建草稿或重新执行完成步骤。
+- 界面只用既有状态和简短下一步说明表达“方案待执行”“已暂停”“处理中”“待审核”；不新增强制确认卡或每轮规划弹窗。
+
+## 非目标
+
+不建立独立状态机平台、自然语言关键词规则库或新任务调度器，不取消用户已授权且未改变的正常自动推进。只改当前助手链及其持久恢复边界。
+
+## 验收标准
+
+| 编号 | 验收 |
+| --- | --- |
+| R27-1 | 有旧 pending 步骤时说“先别执行，只解释方案”，本轮无新草稿/处理/写入；允许必要只读查询。`nextAction:none` 不被旧 action 覆盖。 |
+| R27-2 | “按方案执行”使用最新方案及真实回执继续，完成步骤不重做；初始已明确执行的请求不会再次要求开工确认。 |
+| R27-3 | 暂停后收到自动续做、迟到工具响应或刷新恢复，仍不启动旧步骤；明确停止后沿用取消保护，不能写入失效结果。 |
+| R27-4 | 执行中修改数量/范围仅影响后续授权工作，不能沿旧方案提交；已完成成果不丢失，失效确认卡不能写入。 |
+| R27-5 | 同会话经历方案→执行→暂停解释→继续，状态和真实副作用一致；界面不增加无意义确认，沿用 frontend-v1 样式。 |
+
+## Comments
+
+- 2026-10-15：根据旧方案误续做建立；仅整理文档，验收未执行。

diff --git a/docs/architecture/data-selection-and-assistant.md b/docs/architecture/data-selection-and-assistant.md
@@ -252,3 +252,15 @@ OPT-24 在 frontend-v3 增加项目内个人会话路由，完整抽屉退出正
 OPT-25 默认 candidates 的 `scope=task` 复用 processing task 的当前有效引用，历史 `scope=run` 仅用于追溯。可信 task 关联、来源快照、当前成果/排除修订派生 `reviewRevision`，数量、筛选、分页、核对及采用使用同一集合。稳定来源身份与实际运行/结果引用分开；固定勾选服务端冻结跨批分组，继续处理只物化当前有效成果，缺失占位不计产出，后台未完成不进入完整采用。采用沿原草稿基线/字段修订与既有确认幂等，部分回执不能算整体完成；最终发布另确认。页面复用 ProcessingReview 和既有控件，无新结果表或 Worker 变更。已有批准方案启用时保留同来源/要求下的唯一步骤参数；筛选默认值计划/执行共同归一，错误计划参数不改变持久任务。边界、模型样本及集中验收见 [OPT-25 记录](../../.scratch/assistant-optimization/opt25-verification.md)。
 
 - 不增加数据表或服务；必要的任务/规则/诊断字段按可选读取兼容旧任务。整体主业务顺序仍是资料→处理→审核→确认采用/发布，因此不改写历史 v2 主流程图或 ADR 的技术选型。实施状态与证据见 [OPT-20–25 台账](../../.scratch/assistant-optimization/spec.md)。
+
+## 15. OPT-26–31 执行与生成修复设计（待实施）
+
+2026-10-15 仅整理文档，行为依据 [PRD §7.7](../PRD-data-selection-and-assistant.md#77-执行与生成修复2026-10-15待实施)，具体范围与依赖见 [三批修复方案](../assistant-generation-repair-batches.md)。本节是计划，不改变前述既有实现记录。
+
+- 工具计划合同复用实际 action schema，内部修复诊断和面向用户的业务反馈分开；不扩成任意参数透传。
+- 本轮意图和现有执行授权约束后续步骤，复用任务修订、取消及回执，不新建调度/状态机平台。
+- 查看、筛选、局部处理和采用共同使用当前有效集合及固定修订；业务交付目标独立于各次请求量，禁止按补齐请求求和。
+- 新增明确的无记录生成模式，冻结当前要求与有权读取的背景依据，复用现有处理运行、Worker 和候选存储。与旧记录来源严格区分，服务端创建候选身份；不伪造原始文件/记录或清空旧校验。必要存储字段与配方兼容增补集中于 OPT-29。
+- 场景分配与重复反馈进入现有有界生成配方；实际变化、结构检查和内容审核分开。旧冻结任务保持原恢复语义，权限、个人资料生命周期、幂等、容量和固定确认继续遵循 [ADR-0014](../adr/0014-project-agent-and-processing-runtime.md)。
+
+不引入第二框架、向量库、通用 DAG、候选副本表或新评审智能体。实现时仅补受影响接口及存储说明，不借本轮重构其他模块。

diff --git a/docs/PRD-data-selection-and-assistant.md b/docs/PRD-data-selection-and-assistant.md
@@ -195,6 +195,16 @@ Owner 本轮要求详细方案并拆分多张 Tickets；当前仅完成文档，
 
 实施拆为 [OPT-20–25](../.scratch/assistant-optimization/spec.md)，完整交互、读取、恢复上限和验证口径只在上述方案定义，Ticket 记录各自交付断言。此前原型中助手抽屉的布局由本次新页面修订覆盖，其他合同不变。
 
+### 7.7 执行与生成修复（2026-10-15，待实施）
+
+Owner 确认将八类测试集实测问题按三个批次整理为 [OPT-26–31 修复方案](assistant-generation-repair-batches.md)。本次仅文档，不表示开发、部署或人工验收完成。详细行为、共同边界及最终用户流程在该方案定义，各 Ticket 记录范围、依赖与验收断言。
+
+- 第一批落实最新意图优先、计划和工具合同一致、当前成果范围统一与目标数量独立持久；内部参数纠错不交给普通用户。
+- 第二批新增依据有权读取的背景文档和当前要求从零生成候选的能力；不需要原始数据记录或人工种子。规划先检查能力，生成仍走现有后台处理、审核及固定确认；背景不冒充原始资产。
+- 第三批在现有预算内分配生成场景、处理重复和缺额，反馈改写未生效与内容待审核；结构通过、实际变化、内容质量和保存事实分别表达。
+
+本增补修订 §6 的处理入口，新增无记录生成模式，保留原清洗/改写/基于记录扩充的输入约束。沿用 §7.5 私人背景及 §8 权限、容量和确认边界；GB 八类仅为验收场景，通用产品不内置其分类或数量。UI 严格对齐 frontend-v1，不新增通用工作流平台。
+
 ## 8. 兼容、体验及验收
 
 - 正式版本不可覆盖，发布继续复用 Delta/Checkpoint 与草稿唯一发布；不改 CSV 既有三字段合同。

diff --git a/docs/system-flow-v2.md b/docs/system-flow-v2.md
@@ -4,6 +4,8 @@
 
 静态图：[PNG](system-flow-v2.png)；Mermaid 源文件：[MMD](system-flow-v2.mmd)。
 
+2026-10-15 文档增补：[OPT-26–31 三批修复](assistant-generation-repair-batches.md) 尚未实施；图中虚线“按要求从零生成”表示计划新增路径，沿用后台处理、审核与确认。当前运行和历史修复的实际状态见优化台账。
+
 ## 1. 项目主流程
 
 ```mermaid
@@ -29,7 +31,7 @@ flowchart LR
     Version --> Trash["回收 / 恢复 / 永久删除"]
     Space --> Assistant["项目助手  自然语言"]
     Assistant --> Requirements["当前生效要求  校验对象与字段"]
-    Requirements --> Plan["简单操作或复杂任务步骤"]
+    Requirements --> Plan["简单操作或复杂任务步骤  能力预检"]
     Plan -->|已有执行授权| Tools["固定输入与参数  当前用户业务权限"]
     Tools --> Yield["保存结果  匹配回执与完成条件"]
     Yield -->|确定步骤有界续做| Plan
@@ -42,6 +44,10 @@ flowchart LR
     Version --> Process
     Draft --> Process
     Process --> Worker["后台分批处理  校验"]
+    Assistant --> Background["私人背景文档"]
+    Background -.-> Generation["按要求从零生成  OPT-29待实施"]
+    Tools -.-> Generation
+    Generation -.-> Worker
     Worker --> Result["进度与结果预览"]
     Worker -->|分类完成| Classified["固定分类结果"]
     Classified --> ClassifiedSelect["按类别选取与全量核对"]
